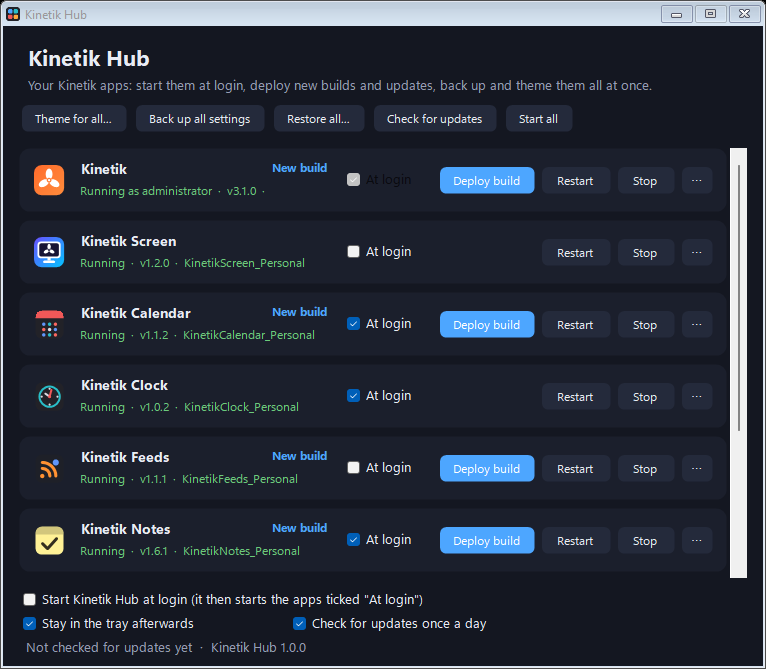
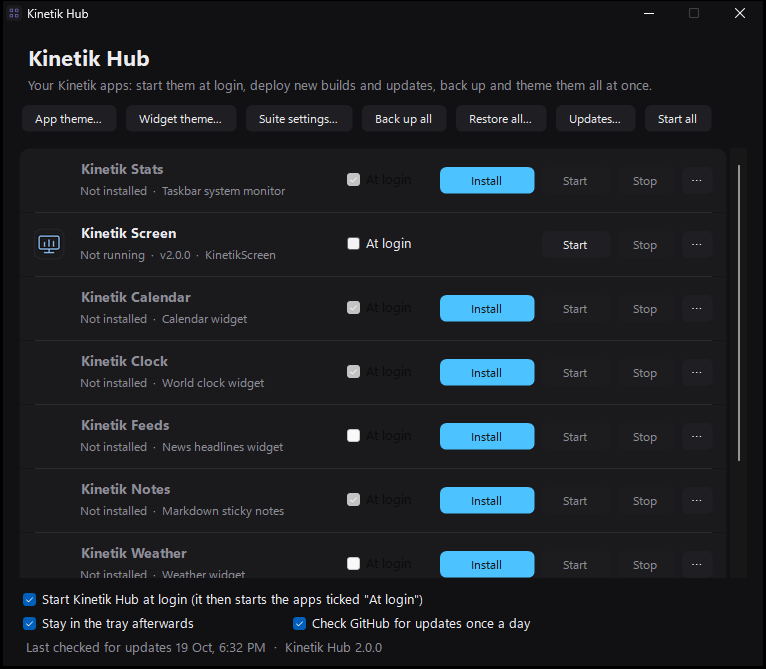
Kinetik Hub 2.0.0
Version 2.0.0, with the Kinetik apps' new look: the app theme shared by
every Kinetik app, the new widget themes (OLED black, Mocha, Match app
theme), the Graphite glass icon, and settings in Kinetik Stats' style.
README and screenshots updated.

diff --git a/KinetikHub.cs b/KinetikHub.cs
@@ -23,12 +23,12 @@ using Microsoft.Win32;
 [assembly: AssemblyTitle("Kinetik Hub")]
 [assembly: AssemblyProduct("Kinetik Hub")]
 [assembly: AssemblyCopyright("Copyright © 2026 Akila Sella Hennedige")]
-[assembly: AssemblyVersion("1.2.0.0")]
-[assembly: AssemblyFileVersion("1.2.0.0")]
+[assembly: AssemblyVersion("2.0.0.0")]
+[assembly: AssemblyFileVersion("2.0.0.0")]
 
 static class Program
 {
-    public const string Version = "1.2.0";
+    public const string Version = "2.0.0";
     public static bool Demo, AtStartup, OpenUpdates;
     public static string ShotPath; // --shot file.png: draws the window into a PNG and quits (for the README screenshot)
     [DllImport("user32.dll")] static extern bool SetProcessDPIAware();
@@ -164,7 +164,7 @@ class Settings
 
     public static bool Unreadable;
 
-    // Kinetik 3.2 and earlier were the app id "Kinetik"; since 3.3 it's Kinetik Stats, id "KinetikStats". Choices saved
+    // Kinetik 3.2 and earlier were the app id "Kinetik"; since 4.0 it's Kinetik Stats, id "KinetikStats". Choices saved
     // under the old id (start at login, a located copy, moved startup entries, update notes) follow it.
     void RenameKinetik()
     {
@@ -296,7 +296,7 @@ class AppDef
 
     public static readonly AppDef[] All =
     {
-        new AppDef { Id = "KinetikStats", Title = "Kinetik Stats", Folder = "Kinetik Stats", Source = "KinetikStats", Repo = "WastedDesigner/KinetikStats", ThemeField = "WidgetThemeName", Admin = true, Blurb = "Taskbar system monitor" },
+        new AppDef { Id = "KinetikStats", Title = "Kinetik Stats", Folder = "Kinetik Stats", Source = "KinetikStats", Repo = "WastedDesigner/Kinetik", ThemeField = "WidgetThemeName", Admin = true, Blurb = "Taskbar system monitor" },
         new AppDef { Id = "KinetikScreen", Title = "Kinetik Screen", Folder = "Kinetik Screen", Source = "KinetikScreen", Blurb = "Sensor panel companion" },
         new AppDef { Id = "KinetikCalendar", Title = "Kinetik Calendar", Folder = "Kinetik Calendar", Source = "KinetikCalendar", Repo = "WastedDesigner/KinetikCalendar", ThemeField = "ThemeName", Blurb = "Calendar widget" },
         new AppDef { Id = "KinetikClock", Title = "Kinetik Clock", Folder = "Kinetik Clock", Source = "KinetikClock", Repo = "WastedDesigner/KinetikClock", ThemeField = "ThemeName", Blurb = "World clock widget" },

diff --git a/SuiteSupport.cs b/SuiteSupport.cs
@@ -1281,7 +1281,7 @@ namespace KinetikSuite
                 var r = new System.Drawing.RectangleF(0.5f, 0.5f, Width - 2, Height - 2);
                 Paths.Fill(g, r, 6, hot && Enabled ? l.Hover : l.Field);
                 Paths.Stroke(g, r, 6, Focused && ShowFocusCues ? l.Accent : l.Border);
-                System.Windows.Forms.TextRenderer.DrawText(g, SelectedIndex >= 0 ? GetItemText(SelectedItem) : "", Font, new System.Drawing.Rectangle(8, 0, Width - 36, Height), Enabled ? l.Text : l.Sub,
+                System.Windows.Forms.TextRenderer.DrawText(g, SelectedIndex >= 0 ? GetItemText(SelectedItem) : "", Font, new System.Drawing.Rectangle(8, 0, Width - 42, Height), Enabled ? l.Text : l.Sub,
                     System.Windows.Forms.TextFormatFlags.VerticalCenter | System.Windows.Forms.TextFormatFlags.Left | System.Windows.Forms.TextFormatFlags.EndEllipsis | System.Windows.Forms.TextFormatFlags.SingleLine | System.Windows.Forms.TextFormatFlags.NoPrefix);
                 Paths.Chevron(g, new System.Drawing.RectangleF(Width - 28, 0, 20, Height), l.Sub);
             }

diff --git a/README.md b/README.md
@@ -9,6 +9,18 @@
 
 > **About this project:** I made this for my own desktop and decided to share it in case anyone else finds it useful. If you run into a bug or have an idea for a feature, please open an issue.
 
+## What's new in 2.0
+
+Part of the Kinetik apps, with [Kinetik Stats](https://github.com/WastedDesigner/Kinetik) (the taskbar monitor, called just Kinetik until its v4.0), [Kinetik Hub](https://github.com/WastedDesigner/KinetikHub) and the other desktop widgets.
+
+- **App theme… button:** picks the theme and accent colour of every Kinetik app at once; **Widget theme…** (was Theme for all…) still sets the widgets' themes.
+- The app list's rows join into one card, as in Kinetik Stats' settings.
+- Knows Kinetik's new name, **Kinetik Stats** (`KinetikStats.exe`), and carries over your choices for it.
+- **App theme:** one theme and accent colour for every Kinetik app's windows and menus: Match Windows, Graphite, OLED black, Midnight, Nord, Mocha, Forest, Light or Paper, with a Sky, Violet, Mint, Amber, Rose or Coral accent or your Windows accent. Pick it in Settings → General, under **App theme** in the right-click menu, in Kinetik Hub or in Kinetik Stats, and every app follows.
+- **New icon** in the Kinetik apps' "Graphite glass" style.
+
+<img src="screenshots/hub.png" alt="Kinetik Hub" width="600">
+
 ## Features
 
 - **Start at login:** tick "At login" for each app and Hub starts them one after another when you sign in. If an app already starts by itself, Hub can take that over. It keeps the app's own startup shortcut and puts it back if you untick the app.
